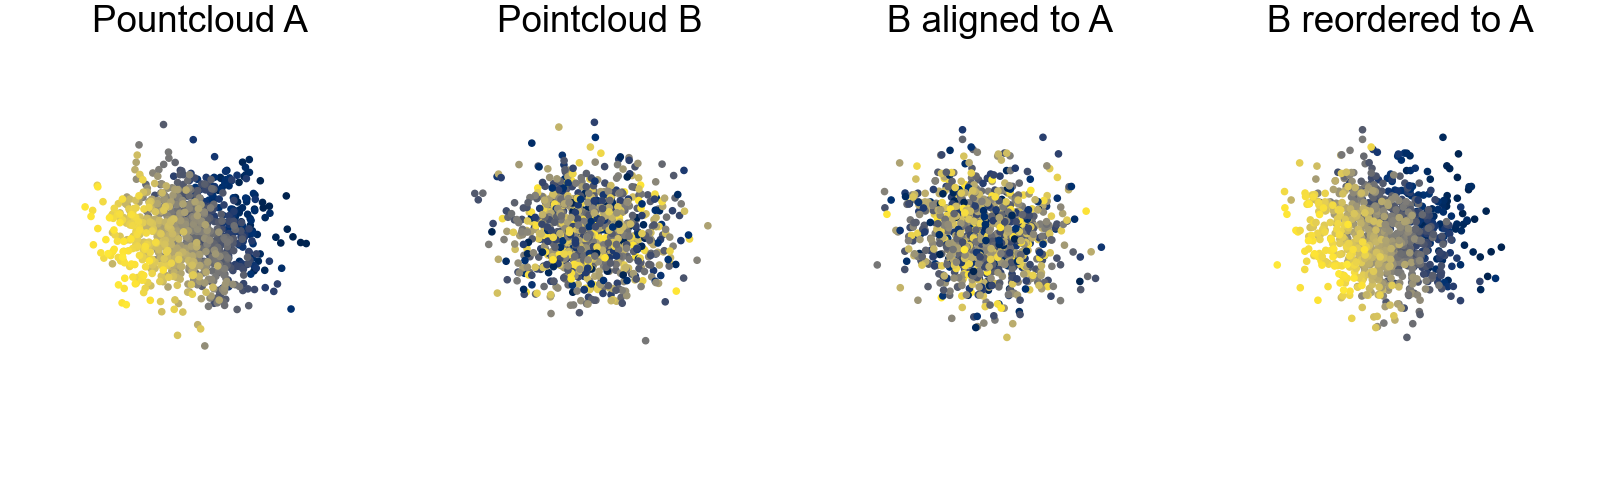
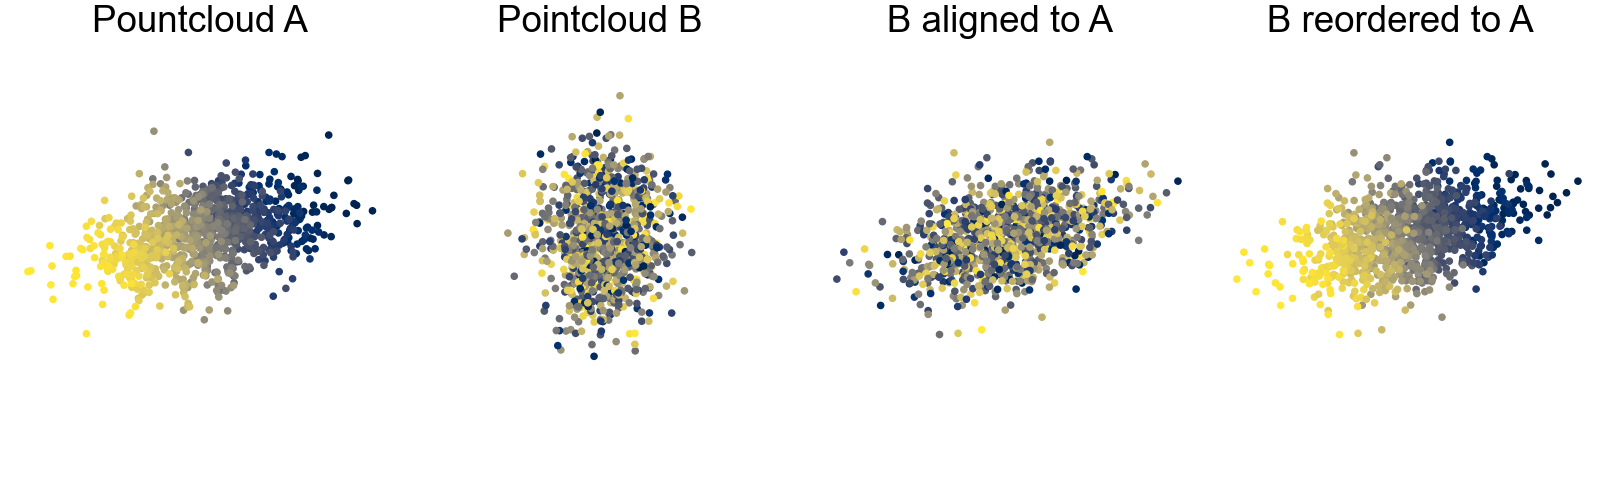
Gaussian example improvements

diff --git a/examples/gaussian_pointclouds.py b/examples/gaussian_pointclouds.py
@@ -16,15 +16,23 @@ np.set_printoptions(precision=3, suppress=True)
 N = 1000  # Number of verts
 
 if __name__ == "__main__":
-	pcl_1 = Pointcloud(verts=np.random.randn(N, 3))
-	pcl_2 = Pointcloud(verts=np.random.randn(N, 3))
+
+	# Gaussian pointclouds, with pcl 1's major axis in x, pcl 2's in y
+
+	verts_1 = np.random.randn(N, 3)
+	verts_2 = np.random.randn(N, 3)
+	verts_1[..., [1,2]] *= 0.5
+	verts_2[..., [0,2]] *= 0.5
+
+	pcl_1 = Pointcloud(verts=verts_1)
+	pcl_2 = Pointcloud(verts=verts_2)
 
 	# Set up ORDER of pointcloud 1 to be by y, then by x, then z for clear visualisation
 	x, y, z = pcl_1.verts.T
 	order = pcl_1.order[np.lexsort((z, y, x))]
 	pcl_1.order = order
 
-	fig, axs = setup_axes(ncols=4, nrows=1, axis_opt='off', bounds=pcl_1.bbox)
+	fig, axs = setup_axes(ncols=4, nrows=1, axis_opt='off', bounds=(-2., 2.))
 
 	plot_pointcloud(axs[0], pcl_1),	plot_pointcloud(axs[1], pcl_2)
 
